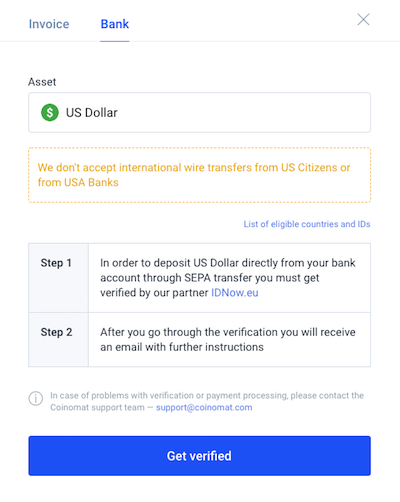
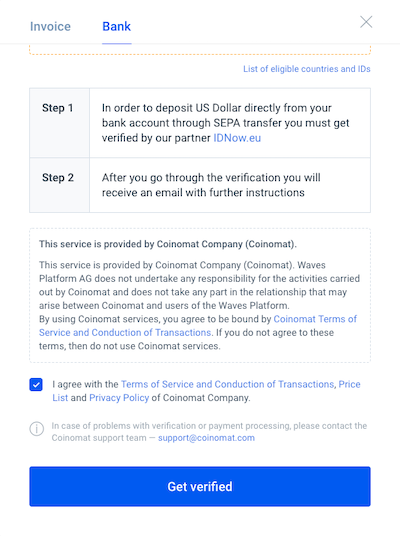
upd

diff --git a/ru/waves-client/transfers-and-gateways/eur-usd-transfers.md b/ru/waves-client/transfers-and-gateways/eur-usd-transfers.md
@@ -8,10 +8,21 @@ Euro/USD переводятся через банковский перевод (
 Процесс верификации выполняется на стороне [IDnow](https://www.idnow.eu/) верификатора.
 
 Прежде чем начать процесс верификации, пожалуйста проверьте [список](https://wavesplatform.userecho.com/topics/1304-list-of-accepted-countries-and-documents-for-verification/) поддерживаемых стран и принимаемые виды документов.
+**Важно**: Мы не принимаем переводы от граждан США или от банков-резидентов США.
 
-Откройте ваше Waves приложение, на главной странице нажмите на кнопку **Получить**. Затем выбирите раздел **Банк** и нажмите на свою персональную ссылку, кнопка **Пройти идентификацию**.
+Откройте Waves приложение, на главной странице нажмите на кнопку **Получить** в US Dollar или Euro секциях.
 
 ![](/_assets/fiat_transfers_01.png)
+
+В открывшемся окне выбирите раздел **Банк** и внимательно прочтите условия обслуживания, предоставляемые Coinomat шлюзом.
+
+> Данная услуга предоставляется компанией Coinomat (Сoinomat).
+Waves Platform AG не несет ответственность за действия Coinomat и не принимает участия в отношениях, которые могут возникнуть в связи с оказанием этой услуги между Coinomat и пользователями Waves Platform.
+Пользуясь услугами Coinomat, вы соглашаетесь быть связанными условиями [Пользовательского соглашения Coinomat](https://coinomat.com/terms.php). Если вы не согласны с упомянутым Соглашением, не пользуйтесь услугами Coinomat.
+
+> Я согласен с [Политикой Конфиденциальности и Пользовательским соглашением](https://coinomat.com/terms.php), [Прайс листом](https://coinomat.com/limits.php) и [Политикой конфиденциальности](https://coinomat.com/privacy.php) сервиса Coinomat.
+
+Если вы согласны с условиями, поставьте галочку и нажмите на кнопку **Пройти верификацию**.
 
 ![](/_assets/fiat_transfers_02.png)
 

diff --git a/en/waves-client/transfers-and-gateways/eur-usd-transfers.md b/en/waves-client/transfers-and-gateways/eur-usd-transfers.md
@@ -4,11 +4,21 @@
 
 The verification process is handled by [IDnow](https://www.idnow.eu/) service.
 
-First of all, you should check that your country is eligible for verification and which document is needed. You will find all these information [here](https://wavesplatform.userecho.com/topics/1304-list-of-accepted-countries-and-documents-for-verification/).
+First of all, you should check that your country is eligible for verification and which documents are required. You will find all these information [here](https://wavesplatform.userecho.com/topics/1304-list-of-accepted-countries-and-documents-for-verification/).
+**Note**: We don't accept international wire transfers from US Citizens or from USA Banks.
 
-Open your wallet. On the main page click on the **Receive** button in the EURO / USD sections, choose **Bank** and click on your personal link **Get verified button**.
+Open your wallet. On the main page click on the **Receive** button in the US Dollar or Euro sections.
 
 ![](/_assets/fiat_transfers_01.png)
+
+Choose **Bank** and carefully read the terms of service provided by Coinomat gateway:
+
+> This service is provided by Coinomat Company (Сoinomat). Waves Platform AG does not undertake any responsibility for the activities carried out by Coinomat and does not take any part in the relationship that may arise between Coinomat and users of the Waves Platform.
+By using Coinomat services, you agree to be bound by [Coinomat Terms of Service and Conduction of Transactions](https://coinomat.com/terms.php). If you do not agree to these terms, then do not use Coinomat services.
+
+> I agree with the [Terms of Service and Conduction of Transactions](https://coinomat.com/terms.php), [Price List](https://coinomat.com/limits.php) and [Privacy Policy](https://coinomat.com/privacy.php) of Coinomat Company.
+
+If you agree, put a checkmark and click on your personal link **Get verified** button.
 
 ![](/_assets/fiat_transfers_02.png)
 
